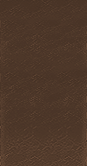
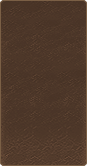
Improve animation performance

Changed region(s): [[0.0, 0.0, 1.0, 1.0]]

diff --git a/D3Assistant/GearView.m b/D3Assistant/GearView.m
@@ -42,11 +42,12 @@
 	self.itemColorImageView = [[UIImageView alloc] initWithFrame:self.bounds];
 	self.itemColorImageView.frame = self.bounds;
 	self.itemColorImageView.contentMode = UIViewContentModeScaleToFill;
-	self.itemColorImageView.layer.cornerRadius = 4;
-	self.itemColorImageView.layer.borderWidth = 1;
-	self.itemColorImageView.layer.borderColor = [[UIColor clearColor] CGColor];
+//	self.itemColorImageView.layer.cornerRadius = 4;
+//	self.itemColorImageView.layer.borderWidth = 1;
+//	self.itemColorImageView.layer.borderColor = [[UIColor clearColor] CGColor];
 	self.itemColorImageView.clipsToBounds = YES;
-
+	self.itemColorImageView.contentStretch = CGRectMake(0.1, 0.1, 0.8, 0.8);
+	
 	self.itemIconImageView = [[UIImageView alloc] initWithFrame:self.bounds];
 	self.itemIconImageView.contentMode = UIViewContentModeScaleAspectFill;
 
@@ -73,7 +74,7 @@
 		if (!self.itemColorImageView.image)
 			self.itemColorImageView.image = [UIImage imageNamed:@"brown.png"];
 		
-		self.itemColorImageView.layer.borderColor = [[D3Utility itemBorderColorWithColorName:color highlighted:NO] CGColor];
+//		self.itemColorImageView.layer.borderColor = [[D3Utility itemBorderColorWithColorName:color highlighted:NO] CGColor];
 		
 		NSArray* gems = [gear valueForKey:@"gems"];
 		NSInteger numberOfGems = gems.count;
@@ -124,7 +125,7 @@
 				self.itemColorImageView.image = [UIImage imageNamed:@"brown.png"];
 		}
 		
-		self.itemColorImageView.layer.borderColor = [[D3Utility itemBorderColorWithColorName:color highlighted:highlighted] CGColor];
+//		self.itemColorImageView.layer.borderColor = [[D3Utility itemBorderColorWithColorName:color highlighted:highlighted] CGColor];
 	}
 }
 

diff --git a/D3Assistant/WeaponBaseInfoView.m b/D3Assistant/WeaponBaseInfoView.m
@@ -34,8 +34,8 @@
 }
 
 - (void) awakeFromNib {
-	self.itemColorImageView.layer.cornerRadius = 4;
-	self.itemColorImageView.layer.borderWidth = 1;
+//	self.itemColorImageView.layer.cornerRadius = 4;
+//	self.itemColorImageView.layer.borderWidth = 1;
 }
 
 - (void) setWeapon:(NSDictionary *)value {
@@ -50,7 +50,7 @@
 	if (!self.itemColorImageView.image)
 		self.itemColorImageView.image = [UIImage imageNamed:@"brown.png"];
 	
-	self.itemColorImageView.layer.borderColor = [[D3Utility itemBorderColorWithColorName:color highlighted:NO] CGColor];
+//	self.itemColorImageView.layer.borderColor = [[D3Utility itemBorderColorWithColorName:color highlighted:NO] CGColor];
 	
 	self.dpsLabel.text = [NSString stringWithFormat:@"%.1f", [[weapon valueForKeyPath:@"dps.max"] floatValue]];
 	self.damageValueLabel.text = [NSString stringWithFormat:@"%.1f-%.1f", [[weapon valueForKeyPath:@"minDamage.max"] floatValue], [[weapon valueForKeyPath:@"maxDamage.max"] floatValue]];

diff --git a/D3Assistant/ArmorBaseInfoView.m b/D3Assistant/ArmorBaseInfoView.m
@@ -35,8 +35,8 @@
 }
 
 - (void) awakeFromNib {
-	self.itemColorImageView.layer.cornerRadius = 4;
-	self.itemColorImageView.layer.borderWidth = 1;
+//	self.itemColorImageView.layer.cornerRadius = 4;
+//	self.itemColorImageView.layer.borderWidth = 1;
 }
 
 - (void) setArmor:(NSDictionary *)value {
@@ -51,7 +51,7 @@
 	if (!self.itemColorImageView.image)
 		self.itemColorImageView.image = [UIImage imageNamed:@"brown.png"];
 	
-	self.itemColorImageView.layer.borderColor = [[D3Utility itemBorderColorWithColorName:color highlighted:NO] CGColor];
+//	self.itemColorImageView.layer.borderColor = [[D3Utility itemBorderColorWithColorName:color highlighted:NO] CGColor];
 
 	NSNumber* armorValue = [armor valueForKeyPath:@"armor.max"];
 	if (armorValue)
